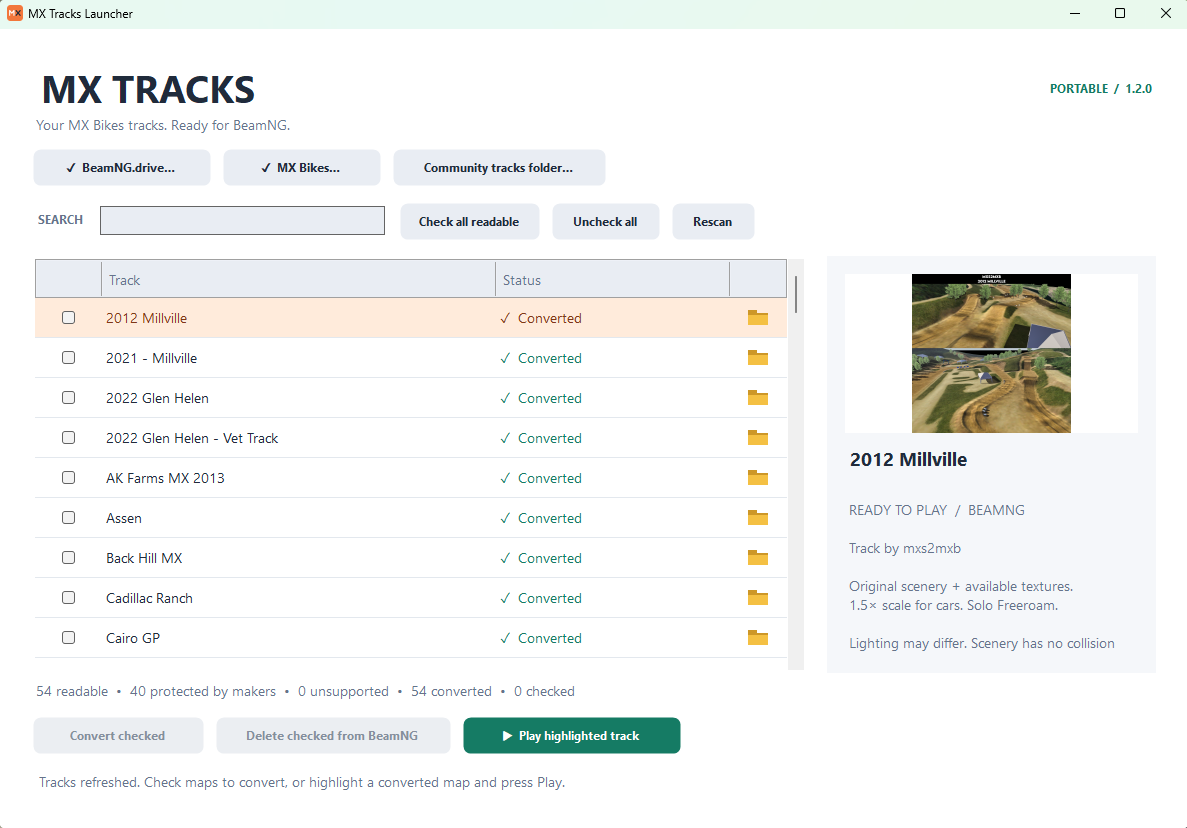
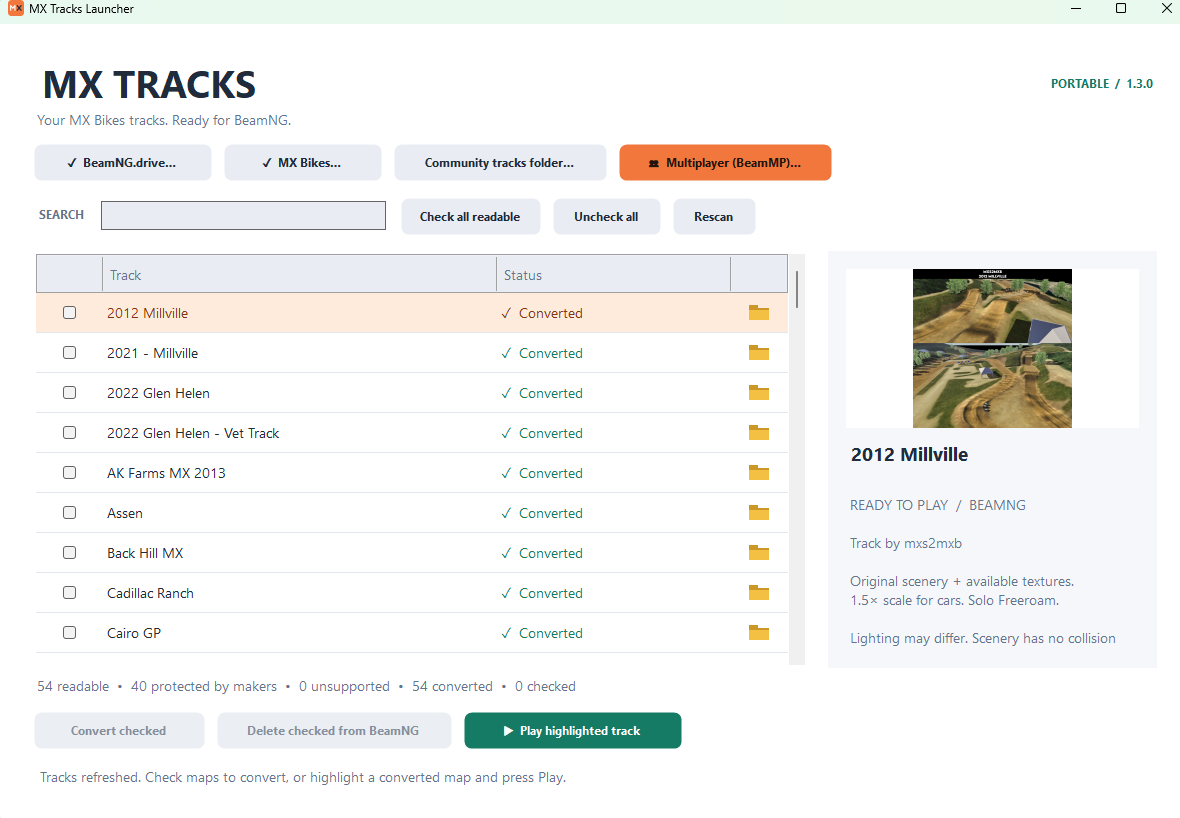
Add 1.3.0 screenshots
Replace the main window screenshot, add the multiplayer window to the
README and website, and refresh the link preview image.

Claude-Session: https://claude.ai/code/session_01LgG1eAFFBj4gjfozMU4qj1

diff --git a/docs/index.html b/docs/index.html
@@ -35,7 +35,7 @@
   "description": "Converts your MX Bikes tracks into BeamNG.drive maps with original scenery and textures, then launches BeamNG onto the track in one click. Built-in BeamMP multiplayer hosting and joining.",
   "url": "https://rare621.github.io/MXTracksLauncher/",
   "downloadUrl": "https://github.com/rare621/MXTracksLauncher/releases/latest",
-  "screenshot": "https://rare621.github.io/MXTracksLauncher/screenshot.png",
+  "screenshot": ["https://rare621.github.io/MXTracksLauncher/screenshot.png", "https://rare621.github.io/MXTracksLauncher/multiplayer.png"],
   "offers": { "@type": "Offer", "price": "0", "priceCurrency": "USD" },
   "author": { "@type": "Person", "name": "Rare621", "url": "https://github.com/rare621" }
 }
@@ -99,7 +99,7 @@
     <p class="meta">Windows 10/11 · .NET Framework 4.8 · BeamMP multiplayer · Requires your own BeamNG.drive and MX Bikes</p>
   </header>
 
-  <img class="shot" src="screenshot.png" alt="MX Tracks Launcher window listing converted MX Bikes tracks such as 2012 Millville and Glen Helen, ready to play in BeamNG.drive" width="1187" height="828">
+  <img class="shot" src="screenshot.png" alt="MX Tracks Launcher window listing converted MX Bikes tracks such as 2012 Millville and Glen Helen, ready to play in BeamNG.drive" width="1180" height="818">
 
   <section>
     <h2>Features</h2>
@@ -128,6 +128,7 @@
   <section>
     <h2>Multiplayer (BeamMP)</h2>
     <p>Press <strong>Multiplayer (BeamMP)</strong> on the main screen. Everyone who plays needs <a href="https://beammp.com">BeamMP</a> (free) and converts the <strong>same track</strong> from their own MX Bikes. The server never sends MX Bikes tracks to anyone.</p>
+    <img class="shot" style="margin:24px 0 28px" src="multiplayer.png" alt="MX Tracks Launcher multiplayer window: server list, BeamMP server settings, vehicle picker and Join a friend" width="1227" height="823" loading="lazy">
     <div class="grid">
       <div class="card"><h3>Host a server</h3><p>Make as many servers as you like, each with its own name, track, port, player and car limits, and vehicle list. Hosting needs a free key from <a href="https://keymaster.beammp.com/">keymaster.beammp.com</a>. The first start downloads the official BeamMP server.</p></div>
       <div class="card"><h3>Let friends in</h3><p>The window shows your internet and home network addresses. Friends on your Wi-Fi use the home address. For friends elsewhere, forward the port (TCP and UDP) on your router.</p></div>

diff --git a/README.md b/README.md
@@ -74,6 +74,8 @@ Press **Multiplayer (BeamMP)** on the main screen.
 
 Everyone who plays needs [BeamMP](https://beammp.com) (free) and must convert the **same track** from their own MX Bikes. The server never sends MX Bikes tracks to anyone.
 
+![MX Tracks Launcher multiplayer window for hosting and joining BeamMP servers](docs/multiplayer.png)
+
 **Hosting**
 - **Servers:** make as many as you like with **New server** and remove them with **Delete**. Each one keeps its own name, track, port, player and car limits, and vehicle list.
 - **Server key:** hosting needs a free BeamMP server key from [keymaster.beammp.com](https://keymaster.beammp.com/). Sign in, make a key and paste it in. The key stays on your PC.
@@ -113,7 +115,8 @@ Yes, it's built in from version 1.3.0. Press **Multiplayer (BeamMP)** to host a 
 | --- | --- |
 | `beamng/lua/ge/extensions/mxbikesTracks.lua` | In-game BeamNG extension. It shows the track name when a converted map loads and runs the automated load/drive self-test. |
 | `beamng/scripts/mxbikes_tracks/modScript.lua` | Loads the extension when BeamNG starts |
-| `docs/screenshot.png` | Screenshot used above |
+| `docs/screenshot.png` | Main window screenshot |
+| `docs/multiplayer.png` | Multiplayer window screenshot |
 | `docs/index.html` | Project website (GitHub Pages) |
 | `docs/social-preview.png` | Link preview image |
 
